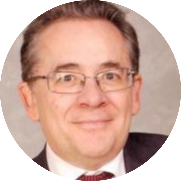
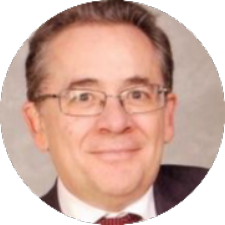
v1.1.6 - añade xiong y josé espinoza

diff --git a/_pages/miembros.md b/_pages/miembros.md
@@ -14,40 +14,50 @@ permalink: /miembros/
 
 * ### Javier M. Buldú // Investigador principal
 
-![image-right](/assets/images/buldu_new.png){: .align-right}
+![javier](/assets/images/buldu.png){: .align-right}
 Coordinador del Laboratorio de Redes Biológicas del Centro de Tecnología Biomédica, Javier M. Buldú es Ingeniero y Doctor en Física Aplicada por la Universidad Politécnica de Cataluña. Es experto en dinámica no-lineal y sistemas complejos, pero especialmente en la aplicación de la Ciencia de las Redes a sistemas biológicos, tecnológicos y sociales. Ha publicado más de 100 artículos científicos en revistas internacionales con revisión por pares, organizado Conferencias y Escuelas internacionales y colaborado con varias empresas en el análisis inteligente de datos. Javier ha realizado estancias post-doctorales en el Centro de Astrobiología y ha sido investigador visitante de la University of Oxford. También ha realizado actividades de transferencia de la investigación, colaborando con varias empresas en la aplicación de la Ciencia de las Redes al sector privado. Durante los últimos años se ha especializado en ciencia de los datos aplicada al fútbol, desarrollando nuevas métricas a partir de metodologías de los sistemas complejos.<br />
 [<span style="color: black"> **> Publicaciones** </span>](http://www.complexity.es/jmbuldu/publications){: .btn .btn--inverse .align-left}<br />
 {: .notice--primary .text-justify}
 
 * ### Johann Martínez // Profesor Ayudante Doctor
 
-![image-left](/assets/images/martinez.png){: .align-left}
+![johann](/assets/images/martinez.png){: .align-left}
 Sus principales intereses se centran en la física de sistemas complejos, en la que explora fenómenos de la ciencia de redes, la teoría de la información y la dinámica no lineal, junto con proyectos de ciencia de datos en el contexto de la neurociencia, las ciencias sociales y la biología, entre otros.<br />
 Siempre le han impresionado los trabajos de investigación que muestran cómo los sistemas naturales y artificiales exhiben comportamientos típicamente atribuidos a los sistemas físicos; de ahí que apueste por la investigación transdisciplinar para resolver problemas, en un campo determinado, recurriendo a herramientas de otro campo a primera vista completamente distinto. Una forma innovadora de encontrar nuevas soluciones con una perspectiva diferente trabajando en equipos interdisciplinares que hagan hincapié en las matemáticas aplicadas, la física estadística y la informática, con aplicaciones a problemas médicos, biológicos o sociales relevantes.<br />
 Es miembro del Consejo Editorial del Journal of Complex Networks (Oxford Academics), editor invitado de Chaos Solitons & Fractals (Elsevier), & Chaos Journal (AIP). Forma parte del comité directivo de la Conferencia Latinoamericana sobre Redes Complejas (LANET), & ENREDANDO, Escuela internacional de dinámica no lineal y redes, Organizador de los Satélites de Redes Cerebrales @NetSci.<br />
 [<span style="color: black"> **> Más información** </span>](https://johemart.wixsite.com/neurocomplexity){: .btn .btn--inverse .align-right}<br />
 {: .notice--primary .text-justify}
 
-* ### Paula Rodríguez // Estudiante predoctoral
+* ### José G. Espinoza // Ingeniero de Datos
 
-![image-right](/assets/images/paula.png){: .align-right}
-Paula Rodríguez es ingeniera de telecomunicaciones por la Universidad Politécnica de Madrid y cuenta con un máster en Física de la Materia Condensada y de los Sistemas Biológicos por la Universidad Autónoma de Madrid. Actualmente, es estudiante de doctorado en el grupo de Sistemas Complejos de la Universidad Rey Juan Carlos. Su investigación explora la relación entre el espacio, el tiempo y la evolución de sistemas complejos en entornos sociales, naturales y tecnológicos, utilizando herramientas de la ciencia de redes, dinámica no lineal, física estadística y aprendizaje automático.<br /><br /><br /><br />
+![galeano](/assets/images/espinoza.png){: .align-left}
+Licenciado en Computación egresado de la Universidad del Zulia (Maracaibo - Venezuela) con experiencia en proyectos globales, destacando en el desarrollo, diseño y mantenimiento de sistemas orientados a microservicios (APIs RESTful) y en la implementación de arquitecturas de APIs utilizando herramientas como ApiGee y Swagger.<br />
+Enfocado en tecnologías como Java (Spring Boot), PHP, JavaScript y Python, además del uso de bases de datos relacionales (MySQL y PostgreSQL) como no relacionales (MongoDB). Su experiencia incluye el manejo de Git (Herramienta de control de versiones), así como la gestión de contenedores de aplicaciones mediante Docker y Kubernetes en plataformas Cloud como AWS y GCP, facilitando el despliegue y la escalabilidad de aplicaciones. Actualmente se desempeña como Desarrollador de Software para una multinacional Europea.<br />
+Su interés por el deporte lo ha llevado a certificarse en áreas como el Big Data aplicado al fútbol y la estadística deportiva, buscando siempre optimizar el rendimiento y la toma de decisiones a través de la tecnología.<br />
+[<span style="color: black"> **> Más información** </span>](https://espinozajgch.github.io./){: .btn .btn--inverse .align-right}<br />
 {: .notice--primary .text-justify}
 
-* ### Xiong // Estudiante predoctoral
+* ### Paula Rodríguez // Estudiante predoctoral
 
-Xiong es un estudiante predoctoral de Beijing, China.<br /><br /><br />
+![paula](/assets/images/rodriguez.png){: .align-right}
+Paula Rodríguez es ingeniera de telecomunicaciones por la Universidad Politécnica de Madrid y cuenta con un máster en Física de la Materia Condensada y de los Sistemas Biológicos por la Universidad Autónoma de Madrid. Actualmente, es estudiante de doctorado en el grupo de Sistemas Complejos de la Universidad Rey Juan Carlos. Su investigación explora la relación entre el espacio, el tiempo y la evolución de sistemas complejos en entornos sociales, naturales y tecnológicos, utilizando herramientas de la ciencia de redes, dinámica no lineal, física estadística y aprendizaje automático.<br /><br /><br /><br /><br />
+{: .notice--primary .text-justify}
+
+* ### Xiuyuan Xiong // Estudiante predoctoral
+
+![xiong](/assets/images/xiong.png){: .align-left}
+Xiuyuan Xiong holds a degree in Mathematics and Applied Mathematics from East China University of Technology and a Master's degree in Sports Science from Beijing Sport University. He is currently a doctoral student at the Faculty of Physical Activity and Sports Sciences (INEF) at the Technical University of Madrid, under the supervision of Javier M. Buldú and Miguel Ángel Gómez Ruano. His research uses network science and machine learning to analyze the performance of football teams.<br /><br /><br /><br /><br /><br />
 {: .notice--primary .text-justify}
 
 * ### Julieta Schwartz // Ayudante de investigación
 
-![image-right](/assets/images/julieta.png){: .align-right}
-Graduada en Física por la Universidad de Zaragoza realizando un año de estancia en la Bath University (Inglaterra) donde surgió su pasión por el análisis de datos deportivo. Actualmente está cursando un máster en Big Data, Data Science e Inteligencia Artificial en la Universidad Complutense de Madrid. Es una apasionada del fútbol, la física y el deporte, con varias medias maratones. Actualmente es ayudante de investigación en el grupo de Sistemas Complejos de la Universidad Rey Juan Carlos, donde analiza datos complejos y proporciona soporte utilizando herramientas avanzadas de programación y análisis.<br /><br /><br /><br /><br /><br /><br />
+![julieta](/assets/images/schwartz.png){: .align-right}
+Graduada en Física por la Universidad de Zaragoza realizando un año de estancia en la Bath University (Inglaterra) donde surgió su pasión por el análisis de datos deportivo. Actualmente está cursando un máster en Big Data, Data Science e Inteligencia Artificial en la Universidad Complutense de Madrid. Es una apasionada del fútbol, la física y el deporte, con varias medias maratones. Actualmente es ayudante de investigación en el grupo de Sistemas Complejos de la Universidad Rey Juan Carlos, donde analiza datos complejos y proporciona soporte utilizando herramientas avanzadas de programación y análisis.<br /><br /><br /><br /><br /><br />
 {: .notice--primary .text-justify}
 
 * ### Javier Ortiz de Artiñano // Gestor de proyectos
 
-![image-left](/assets/images/ortiz.png){: .align-left}
+![javi](/assets/images/ortiz.png){: .align-left}
 Javier es biotecnólogo por la Universidad Politécnica de Madrid y también cuenta con un Máster en Data Science por la misma universidad. Como gestor de proyectos del grupo, se encarga de las tareas relativas a la gestión y organización –como, por ejemplo, ¡el diseño de esta página!–; no obstante, posee un gran interés por los sistemas complejos de todo tipo, incluyendo la neurociencia y las redes biológicas. Entre sus otros intereses se cuenta la lectura (particularmente la historia y la filosofía), la naturaleza, el escultismo y, de vez en cuando, tocar (como pueda) la guitarra.<br /><br /><br /><br /><br />
 {: .notice--primary .text-justify}
 
@@ -55,27 +65,22 @@ Javier es biotecnólogo por la Universidad Politécnica de Madrid y también cue
 
 * ### Ignacio Echegoyen
 
-![image-right](/assets/images/echegoyen.png){: .align-right}
+![echegoyen](/assets/images/echegoyen.png){: .align-right}
 Ignacio Echegoyen es Psicólogo y Doctor en Ingeniería Biomédica por la Universidad Politécnica de Madrid. Está especializado en métodos, estadística y análisis de series temporales cerebrales. Su labor profesional se ha desarrollado fundamentalmente en el campo de la neurociencia de redes, aplicando técnicas de análisis de sistemas complejos al estudio del cerebro. Colabora como asesor y analista estadístico con COTERA educación, y en los últimos años se ha dedicado también a la aplicación de metodologías de sistemas complejos al fútbol.<br /><br /><br /><br />
 [<span style="color: black"> **> Más información** </span>](https://nachoenblanco.github.io/){: .btn .btn--inverse .align-left}<br />
 {: .notice--primary .text-justify}
 
 * ### Xavier Busquets
 
-![image-left](/assets/images/busquets.png){: .align-left}
+![busquets](/assets/images/busquets.png){: .align-left}
 Javier Busquets está especializado en estrategia digital, gobierno de la innovación y transformación digital en la empresa. Es el director del programa Executive Master in Digital Business (en colaboración con la SCU en Silicon Valley) y Liderazgo Digital (en asociación con IDC España). Es profesor de los programas Bachelor in Global Governance, Doble Grado en Dirección de Empresas y Derecho, MBA, Executive MBA y programas a medida para empresas. Su interés investigador se centra en el rol directivo y la innovación (en particular, el papel del chief information officer, CIO), la teoría de redes y los sistemas complejos. Se ha especializado en los sectores de la banca, los seguros y el fintech, la salud y los medios de comunicación. Previamente, había desarrollado actividades ejecutivas y de consultoría en Telefónica, Retevisión, Hewlett Packard y Siebel Systems. Posee una amplia experiencia en formación ejecutiva y en actividades de consultoría.<br />
 [<span style="color: black"> **> Más información** </span>](https://www.esade.edu/profesorado/xavier.busquets){: .btn .btn--inverse .align-right}<br />
 {: .notice--primary .text-justify}
 
 * ### José Luis Herrera Diestra
 
-![image-right](/assets/images/diestra.png){: .align-right}
+![diestra](/assets/images/diestra.png){: .align-right}
 Doctor en Física fundamental egresado de la Universidad de Los Andes, Mérida - Venezuela. Realizó estancias postdoctorales en la University of Texas at Austin, Texas - Estados Unidos (2012 - 2013 y 2016 - 2017) y en el ICTP - SAIFR, Sao Paulo - Brasil (2017 - 2019). Actualmente trabaja en la University of Texas at Austin como Investigador Asociado. Su campo principal de investigación es la caracterización y estudio de las redes complejas en diversos contextos. En este sentido, colabora con diversos grupos a nivel nacional e internacional realizando investigación sobre el efecto de las redes de contacto en la propagación de enfermedades infecciosas en seres humanos y animales; así como la aplicación de las redes complejas para evaluar el desempeño individual y grupal en deportes, particularmente fútbol.<br /><br /><br />
-{: .notice--primary .text-justify}
-
-* ### Javier Galiano
-
-Todos los colaboradores externos del grupo son personas estupendas y nos morimos de ganas por aprender más de él. <br /><br /><br /><br /><br /><br /><br />
 {: .notice--primary .text-justify}
 
 * ### Miguel Ángel Ruán
